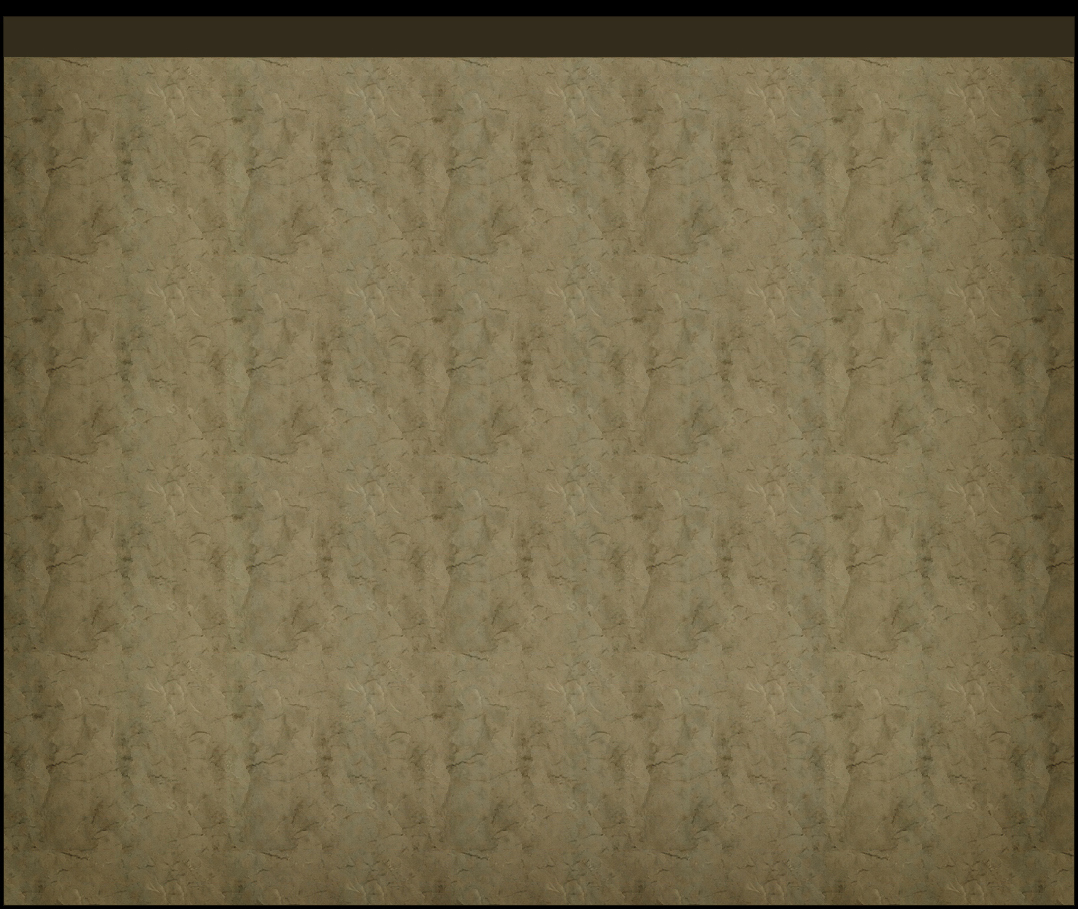
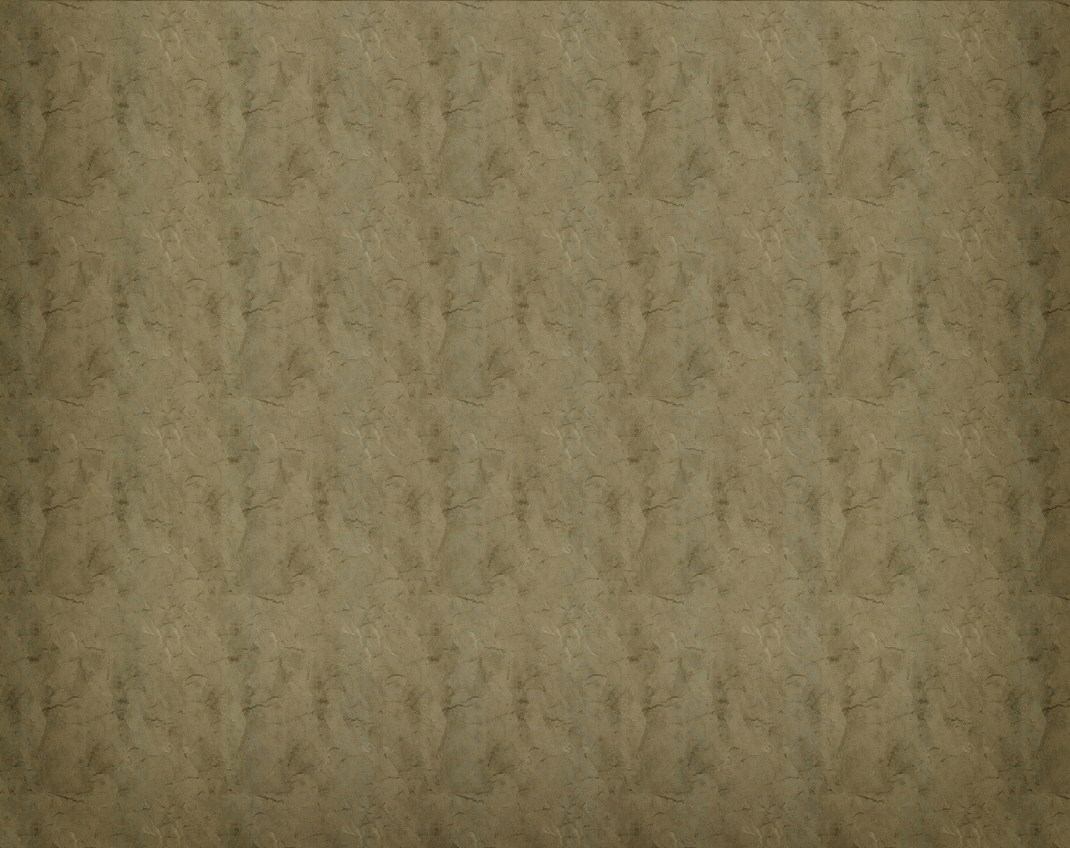
add: main window background

diff --git a/src/TQVaultAE/Views/TQWindow.axaml.cs b/src/TQVaultAE/Views/TQWindow.axaml.cs
@@ -27,7 +27,7 @@ public partial class TQWindow : Window
         });
     }
 
-    public TQWindow(Control content, string title, double initialWidth = 1100d, double initialHeight = 800d, bool allowResize = true, WindowCloseAction closeAction = WindowCloseAction.ExitApplication)
+    public TQWindow(Control content, string title, double initialWidth = 1300d, double initialHeight = 900d, bool allowResize = true, WindowCloseAction closeAction = WindowCloseAction.ExitApplication)
     {
         InitializeComponent();
         DataContext = new TQWindowViewModel(this, title, initialWidth, initialHeight, allowResize, closeAction);

diff --git a/src/TQVaultAE/ViewModels/TQWindowViewModel.cs b/src/TQVaultAE/ViewModels/TQWindowViewModel.cs
@@ -50,8 +50,8 @@ namespace TQVaultAE.ViewModels
 
         public string Title { get; set; } = "TQVaultAE 5.0.0.0";
 
-        public double Width { get; set; } = 1100d;
-        public double Height { get; set; } = 800d;
+        public double Width { get; set; } = 1300d;
+        public double Height { get; set; } = 700d;
 
         public bool CanResize { get; set; } = true;
 
